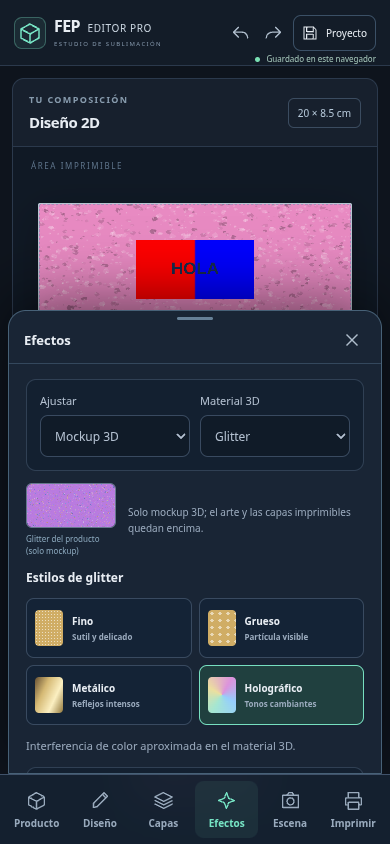
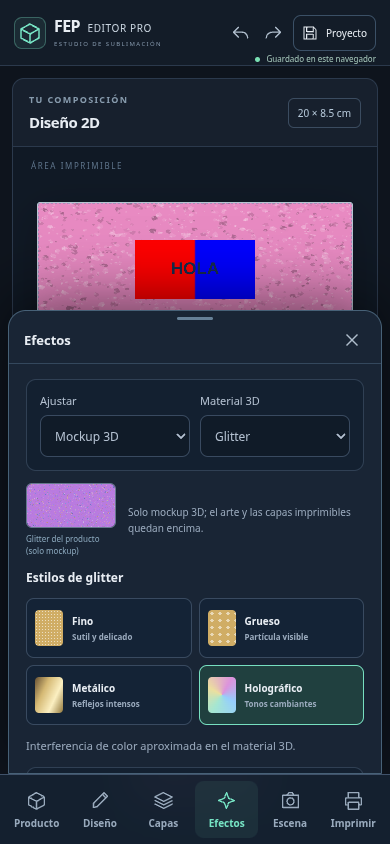
Verify exact canvas display proportions and final responsive captures

diff --git a/src/interface.css b/src/interface.css
@@ -1,4 +1,4 @@
-:root{font-family:Inter,ui-sans-serif,system-ui,-apple-system,BlinkMacSystemFont,"Segoe UI",sans-serif;color:#e8edf3;background:#0e141d;font-synthesis:none;--surface:#17202d;--surface-deep:#111a26;--border:#2b394c;--muted:#9aaabd;--accent:#76e4c4;--tools:296px;--radius:14px;color-scheme:dark}*{box-sizing:border-box}body{margin:0}button,input,select,summary{font:inherit}button,summary{cursor:pointer}button,input,select{border:1px solid #394a60;border-radius:8px;background:#1c2a3a;color:inherit;min-width:0}button{padding:10px 12px;min-height:40px;font-size:12px;font-weight:550;transition:background .15s,border-color .15s}button:hover,summary:hover{background:#293c50;border-color:#66829b}button:disabled{opacity:.42;cursor:default}button:focus-visible,input:focus-visible,select:focus-visible,summary:focus-visible,a:focus-visible{outline:2px solid var(--accent);outline-offset:3px}button.primary,.primary{background:#79e2c3;border-color:#79e2c3;color:#102e28;font-weight:700}button.primary:hover{background:#9bf0d7}svg{width:20px;height:20px;flex:none}button svg,summary svg{vertical-align:middle}input,select{width:100%;min-height:38px;padding:8px 10px;background:#101b28;font-size:12px}input[type=color]{height:38px;padding:3px}input[type=range]{padding:0;min-height:32px;accent-color:var(--accent)}input[type=checkbox]{width:18px;min-height:18px;accent-color:var(--accent);flex:none}label{display:grid;gap:7px;font-size:11px;color:#b4c1d1;line-height:1.4}p{margin:0}h1,h2,h3{margin:0}h2{font-size:18px;letter-spacing:-.45px}h3{font-size:12px;font-weight:650}small,.hint{font-size:11px;color:var(--muted);line-height:1.6}.muted{font-size:11px;color:var(--muted);line-height:1.6}.eyebrow{display:block;font-size:9px;font-weight:650;letter-spacing:1.35px;color:#879bad;margin-bottom:6px}[hidden]{display:none!important}.app-header{height:72px;display:flex;align-items:center;justify-content:space-between;padding:0 22px;border-bottom:1px solid var(--border);background:#131c28;gap:20px;flex:none}.brand{display:flex;gap:12px;align-items:center;text-decoration:none;color:inherit}.brand-mark{display:grid;place-items:center;width:38px;height:38px;border:1px solid #7de3c34f;border-radius:11px;background:#75e3c313;color:var(--accent)}.brand-mark svg{width:24px;height:24px}.brand strong{font-size:18px;letter-spacing:-.6px;font-weight:750}.brand strong span{font-weight:450;font-size:14px;letter-spacing:1px;margin-left:4px;color:#c9d4df}.brand small{display:block;font-size:8px;letter-spacing:2px;color:#8295a9;margin-top:3px}.header-actions{display:flex;align-items:center;gap:18px}.save-status{font-size:11px;color:#a7c9bc}.save-status:before{content:"";display:inline-block;background:#79dfb2;width:5px;height:5px;border-radius:50%;margin-right:7px}.save-status[data-state=error]{color:#ffad9e}.save-status[data-state=error]:before{background:#ffad9e}.save-status[data-state=saving]{color:#b9c8db}.save-status[data-state=saving]:before{background:#d6c579}.icon-button{width:36px;min-height:36px;padding:7px;background:transparent;border-color:transparent;border-radius:7px;color:#afbdcc}.history-actions{display:flex;gap:3px;padding-left:12px;border-left:1px solid var(--border)}.project-menu{position:relative}.project-menu>summary{display:flex;gap:8px;align-items:center;border:1px solid #3b5066;border-radius:8px;padding:9px 12px;list-style:none;font-size:12px}.project-menu>summary::-webkit-details-marker{display:none}.project-menu>div{position:absolute;right:0;top:48px;z-index:90;display:grid;gap:6px;min-width:230px;padding:10px;background:#1b2939;border:1px solid #42536b;border-radius:10px;box-shadow:0 12px 40px #0006}.project-menu button{text-align:left}.tool-tabs{display:flex;height:56px;gap:4px;align-items:stretch;padding:8px 22px 0;border-bottom:1px solid var(--border);background:#111a26;flex:none}.tool-tabs>button{position:relative;display:flex;gap:9px;align-items:center;justify-content:center;background:transparent;border:0;border-bottom:2px solid transparent;border-radius:7px 7px 0 0;color:#99aabd;padding:0 19px;font-size:12px;min-height:0}.tool-tabs>button svg{width:17px;height:17px}.tool-tabs>button[aria-selected=true]{color:var(--accent);border-bottom-color:var(--accent);background:#73dfbf0a}.tool-tabs>button:hover{color:#e9f3f5;background:#ffffff06}.editor-workspace{display:grid;grid-template-columns:var(--tools) minmax(0,1fr) minmax(0,1fr);gap:14px;padding:16px;min-height:0;flex:1;overflow:hidden}.tools-dock,.workspace-card{min-width:0;min-height:0;background:var(--surface);border:1px solid var(--border);border-radius:var(--radius);overflow:hidden}.tools-dock{position:relative}.tools-content{height:100%;overflow:hidden}.tool-panel{height:100%;padding:20px;display:flex;flex-direction:column;gap:16px;overflow:auto;overscroll-behavior:contain;scrollbar-width:thin;scrollbar-color:#425670 transparent}.panel-heading h2{margin:6px 0 8px}.panel-heading p{font-size:11px;line-height:1.6;color:var(--muted)}.control-card{padding:13px;border:1px solid #304054;border-radius:10px;background:#132030;display:grid;gap:13px}.control-card.compact{gap:10px}.control-card h3{color:#d0dbe7}.product-summary{display:flex;align-items:center;gap:12px;padding:18px 12px;background:linear-gradient(135deg,#23394a,#1a2a3c);border:1px solid #3c566a;border-radius:11px}.product-summary>svg{width:38px;height:38px;color:#8de3ca}.product-summary strong{display:block;font-size:12px;margin-bottom:4px}.product-summary small{font-size:10px}.field-pair{display:grid;grid-template-columns:repeat(2,minmax(0,1fr));gap:11px}.button-grid{display:grid;grid-template-columns:repeat(2,minmax(0,1fr));gap:7px}.button-grid.three{grid-template-columns:repeat(3,minmax(0,1fr))}.button-grid.three>button{font-size:10px;padding:8px 3px}.next-step{display:flex;align-items:center;justify-content:space-between}.panel-bottom{margin-top:auto;padding-top:12px;border-top:1px solid var(--border)}.panel-bottom button{width:100%;color:#dda8a0;background:transparent}.tool-accordion{border:1px solid #304054;border-radius:10px;background:#142030;flex:none}.tool-accordion>summary{display:flex;gap:10px;align-items:center;list-style:none;font-size:12px;font-weight:600;padding:13px;border-radius:10px}.tool-accordion>summary:after{content:"+";margin-left:auto;font-weight:400;color:#8ba5bb;font-size:17px}.tool-accordion[open]>summary:after{content:"−"}.tool-accordion>summary::-webkit-details-marker{display:none}.tool-accordion[open]>summary{border-bottom:1px solid #304054;border-radius:10px 10px 0 0}.accordion-body{display:grid;gap:13px;padding:13px}.tool-accordion>p{padding:13px}.image-size-panel{display:grid;gap:12px;padding:12px;border:1px solid #394c61;border-radius:8px}.image-size-panel strong{font-size:11px}.image-size-grid{display:grid;grid-template-columns:1fr 1fr;gap:10px}.image-lock,.mirror-switch{display:flex;align-items:center;gap:9px}.image-lock input,.mirror-switch input{flex:none}.image-lock{font-size:11px}.image-size-panel p{font-size:10px}.print-summary{display:grid;gap:6px;padding:16px;background:#75e3c30a;border:1px solid #75e3c333;border-radius:10px}.print-summary>span{font-size:8px;letter-spacing:1.4px;color:#9bbfb6}.print-summary>strong{color:var(--accent);font-size:27px;letter-spacing:-1px}.print-mode-status{font-size:10px;color:#91dfc8;line-height:1.5}#mirrorPreview{display:block;width:100%;height:auto;border-radius:6px}#exportPrint,#addGlitterLayer{background:#75e2c1;color:#12352a;border-color:#75e2c1;font-weight:700}.workspace-card{display:flex;flex-direction:column}.workspace-heading{display:flex;align-items:center;justify-content:space-between;padding:19px 20px 17px;border-bottom:1px solid var(--border);flex:none;gap:8px}.workspace-heading h2{font-size:16px}.dimension-pill{font-size:10px;padding:7px 9px;color:#b6c9da;border:1px solid #3b4c60;border-radius:6px;white-space:nowrap}.live-badge{display:flex;align-items:center;gap:6px;font-size:10px;color:#a4c7b9}.live-badge>i{width:5px;height:5px;background:#71dfae;border-radius:50%}.canvas-stage{flex:1;min-height:0;position:relative;display:flex;align-items:center;justify-content:center;overflow:hidden;background-color:#101925;background-image:radial-gradient(#4b61732e .6px,transparent .6px);background-size:16px 16px;padding:28px}.stage-label{position:absolute;top:13px;left:18px;font-size:8px;letter-spacing:1.6px;color:#5e748b}#canvasWrap{position:relative;flex:none;background:#fff;border:1px solid #b6c6d2;border-radius:2px;box-shadow:0 14px 40px #0004;overflow:hidden;touch-action:none}#designCanvas{display:block;width:100%;height:100%;touch-action:none;cursor:move}#emptyDesignHint{position:absolute;bottom:16px;left:12px;right:12px;text-align:center;font-size:10px;color:#7c91a7;pointer-events:none}.canvas-actions{display:flex;gap:8px;justify-content:center;padding:14px;border-top:1px solid var(--border);background:#152130;flex:none}.canvas-actions>button{display:flex;align-items:center;gap:7px;min-height:36px;padding:7px 11px;font-size:11px;background:#203044;border-color:#32475d}.canvas-actions svg{width:15px;height:15px}.workspace-caption{color:#8196ad;font-size:9px;text-align:center;line-height:1.5;padding:9px 10px;background:#131e2b;flex:none}#viewer{min-height:180px;flex:1;width:100%;overflow:hidden;position:relative;background:radial-gradient(circle at 50% 55%,#2b3e53,#17253a);touch-action:none}#viewer canvas{display:block;width:100%;height:100%;touch-action:none}.rotation-toolbar{display:grid;gap:9px;background:#162536;padding:13px 15px;border-top:1px solid #33475d;flex:none}.rotation-toolbar-top{display:flex;justify-content:space-between;align-items:center;font-size:10px}.rotation-toolbar-top>strong:first-child{font-weight:500;color:#b4c5d8}#rotationValue{font-size:13px;color:var(--accent);font-variant-numeric:tabular-nums}.rotation-adjust{display:flex;align-items:center;gap:10px}.rotation-adjust input{flex:1;min-width:0}.rotation-adjust button{width:42px;min-height:30px;padding:5px;font-size:10px}.rotation-action{display:flex;gap:7px;align-items:center}.rotation-action label{font-size:10px}.rotation-action input{width:56px;min-height:30px;padding:5px;font-size:10px}.rotation-action button{min-height:30px;padding:5px 8px;font-size:10px;flex:1}.workspace-status{display:flex;justify-content:space-between;gap:20px;align-items:center;min-height:28px;flex:none;padding:4px 20px;background:#111a26;border-top:1px solid #263649;color:#9db6ac;font-size:10px;line-height:1.4}#notice{overflow:hidden;text-overflow:ellipsis;white-space:nowrap}.edition-label{white-space:nowrap;font-size:8px;letter-spacing:1px;color:#6f859d}.mobile-panel-header{display:none}.layer-heading{display:flex;justify-content:space-between;align-items:center;font-size:11px;color:#adbdcf}.text-action{padding:3px 0;min-height:28px;border:0;background:transparent;color:#86d8c1;font-size:11px;text-align:left}.layer-inspector{margin-top:auto;display:grid;gap:11px;padding-top:15px;border-top:1px solid var(--border)}#panel-layers{gap:12px}#layerList{display:grid;gap:7px;align-content:start;overflow:auto;min-height:0;scrollbar-width:thin;flex:1}.layer-row{display:flex;align-items:center;gap:3px;padding:5px;border:1px solid #314459;border-radius:9px;background:#17283a;flex:none}.layer-row[data-selected=true]{border-color:#75e2c1;background:#1a383b;box-shadow:inset 2px 0 #75e2c1}.layer-row[data-visible=false]{opacity:.55}.layer-select{display:flex;align-items:center;gap:9px;min-width:0;flex:1;border:0;padding:2px;background:transparent;text-align:left;min-height:46px}.layer-select:hover{background:transparent}.layer-select canvas{width:38px;height:38px;border:1px solid #506377;border-radius:5px;background:#eee;flex:none}.layer-copy{display:grid;gap:4px;overflow:hidden}.layer-copy strong{font-size:11px;font-weight:550;white-space:nowrap;overflow:hidden;text-overflow:ellipsis}.layer-copy small{font-size:9px;line-height:1.2;color:#8aa2b7}.layer-toggle{position:relative;width:26px;height:38px;display:grid;place-items:center;flex:none;cursor:pointer}.layer-toggle input{position:absolute;inset:0;width:100%;height:100%;margin:0;opacity:0;cursor:pointer}.layer-toggle svg{width:15px;height:15px;color:#668399;pointer-events:none}.layer-toggle input:checked+svg{color:#a8e2ce}.layer-toggle input:focus-visible+svg{outline:2px solid #76e4c4;outline-offset:5px}.empty-layers{display:grid;justify-items:center;align-content:center;text-align:center;gap:15px;padding:34px 10px;flex:1}.empty-layers svg{width:34px;height:34px;color:#718ca7}.empty-layers strong{font-size:13px}.empty-layers p{font-size:11px;line-height:1.7;color:#8da5ba}.glitter-preview{margin:0;flex:none;width:90px}.glitter-preview canvas{display:block;width:90px;height:45px;border-radius:6px;border:1px solid #65788d}.glitter-preview figcaption{font-size:8px;line-height:1.5;color:#8aa7bc;margin-top:5px}.effect-preview-row{display:flex;gap:12px;align-items:center}.effect-preview-row .hint{font-size:10px}.preset-grid{display:grid;grid-template-columns:1fr 1fr;gap:7px}.preset-card{display:flex;gap:9px;align-items:center;text-align:left;padding:8px;min-height:62px;background:#142336}.preset-card[aria-pressed=true]{border-color:#77dfc0;background:#20403f}.preset-card>span:last-child{display:grid;gap:4px}.preset-card strong{font-size:10px;font-weight:600}.preset-card small{font-size:8px;line-height:1.3}.preset-swatch{width:28px;height:36px;border-radius:4px;flex:none;background-color:#d0ad65;background-image:radial-gradient(#fff9 .6px,transparent .6px);background-size:3px 3px}.preset-swatch.coarse{background-size:8px 7px;background-image:radial-gradient(#fff8 1.5px,transparent 1.5px)}.preset-swatch.metallic{background:linear-gradient(115deg,#665033,#d5b974,#fbefc1,#92783c)}.preset-swatch.holographic{background:conic-gradient(from 30deg,#dc93dc,#95cefc,#a5e6d1,#ecdf9e,#dc93dc)}.color-pair{display:grid;grid-template-columns:minmax(0,1fr) 70px;gap:10px}.color-pair label:last-child{font-size:10px}.sheet-layout{height:100%;display:flex;flex-direction:column;background:#172331}.sheet-head{display:flex;justify-content:space-between;align-items:center;gap:10px;padding:16px;border-bottom:1px solid var(--border)}.sheet-head h2{font-size:14px}.sheet-head button{font-size:10px;min-height:32px;padding:6px 8px}.sheet-body{display:flex;flex-direction:column-reverse;overflow:auto;min-height:0;flex:1;overscroll-behavior:contain;scrollbar-width:thin}.sheet-tools{display:grid;gap:12px;padding:14px}.sheet-tools .field-pair{gap:8px}.sheet-preview-holder{padding:13px 15px;background:#10202b;display:grid;gap:9px;justify-items:center;flex:none;border-bottom:1px solid #34475a}.sheet-preview-holder>strong{font-size:10px;color:#b7c8d8}#sheetPreview{display:block;max-width:100%;max-height:170px;object-fit:contain;background:white;box-shadow:0 4px 14px #0005;touch-action:none;cursor:grab}.sheet-help{color:#9db4c9;font-size:10px;line-height:1.5}.sheet-bad{color:#ffb6a6}.sheet-good{color:#99dabb}#sheetSelectedName{font-size:11px;color:#b5c9dc}#sheetOverlay{position:absolute;inset:0;z-index:4;background:#172331}#sheetOverlay[hidden]{display:none}.tag{font-size:9px;color:#9fdfc7}.full{width:100%}
+:root{font-family:Inter,ui-sans-serif,system-ui,-apple-system,BlinkMacSystemFont,"Segoe UI",sans-serif;color:#e8edf3;background:#0e141d;font-synthesis:none;--surface:#17202d;--surface-deep:#111a26;--border:#2b394c;--muted:#9aaabd;--accent:#76e4c4;--tools:296px;--radius:14px;color-scheme:dark}*{box-sizing:border-box}body{margin:0}button,input,select,summary{font:inherit}button,summary{cursor:pointer}button,input,select{border:1px solid #394a60;border-radius:8px;background:#1c2a3a;color:inherit;min-width:0}button{padding:10px 12px;min-height:40px;font-size:12px;font-weight:550;transition:background .15s,border-color .15s}button:hover,summary:hover{background:#293c50;border-color:#66829b}button:disabled{opacity:.42;cursor:default}button:focus-visible,input:focus-visible,select:focus-visible,summary:focus-visible,a:focus-visible{outline:2px solid var(--accent);outline-offset:3px}button.primary,.primary{background:#79e2c3;border-color:#79e2c3;color:#102e28;font-weight:700}button.primary:hover{background:#9bf0d7}svg{width:20px;height:20px;flex:none}button svg,summary svg{vertical-align:middle}input,select{width:100%;min-height:38px;padding:8px 10px;background:#101b28;font-size:12px}input[type=color]{height:38px;padding:3px}input[type=range]{padding:0;min-height:32px;accent-color:var(--accent)}input[type=checkbox]{width:18px;min-height:18px;accent-color:var(--accent);flex:none}label{display:grid;gap:7px;font-size:11px;color:#b4c1d1;line-height:1.4}p{margin:0}h1,h2,h3{margin:0}h2{font-size:18px;letter-spacing:-.45px}h3{font-size:12px;font-weight:650}small,.hint{font-size:11px;color:var(--muted);line-height:1.6}.muted{font-size:11px;color:var(--muted);line-height:1.6}.eyebrow{display:block;font-size:9px;font-weight:650;letter-spacing:1.35px;color:#879bad;margin-bottom:6px}[hidden]{display:none!important}.app-header{height:72px;display:flex;align-items:center;justify-content:space-between;padding:0 22px;border-bottom:1px solid var(--border);background:#131c28;gap:20px;flex:none}.brand{display:flex;gap:12px;align-items:center;text-decoration:none;color:inherit}.brand-mark{display:grid;place-items:center;width:38px;height:38px;border:1px solid #7de3c34f;border-radius:11px;background:#75e3c313;color:var(--accent)}.brand-mark svg{width:24px;height:24px}.brand strong{font-size:18px;letter-spacing:-.6px;font-weight:750}.brand strong span{font-weight:450;font-size:14px;letter-spacing:1px;margin-left:4px;color:#c9d4df}.brand small{display:block;font-size:8px;letter-spacing:2px;color:#8295a9;margin-top:3px}.header-actions{display:flex;align-items:center;gap:18px}.save-status{font-size:11px;color:#a7c9bc}.save-status:before{content:"";display:inline-block;background:#79dfb2;width:5px;height:5px;border-radius:50%;margin-right:7px}.save-status[data-state=error]{color:#ffad9e}.save-status[data-state=error]:before{background:#ffad9e}.save-status[data-state=saving]{color:#b9c8db}.save-status[data-state=saving]:before{background:#d6c579}.icon-button{width:36px;min-height:36px;padding:7px;background:transparent;border-color:transparent;border-radius:7px;color:#afbdcc}.history-actions{display:flex;gap:3px;padding-left:12px;border-left:1px solid var(--border)}.project-menu{position:relative}.project-menu>summary{display:flex;gap:8px;align-items:center;border:1px solid #3b5066;border-radius:8px;padding:9px 12px;list-style:none;font-size:12px}.project-menu>summary::-webkit-details-marker{display:none}.project-menu>div{position:absolute;right:0;top:48px;z-index:90;display:grid;gap:6px;min-width:230px;padding:10px;background:#1b2939;border:1px solid #42536b;border-radius:10px;box-shadow:0 12px 40px #0006}.project-menu button{text-align:left}.tool-tabs{display:flex;height:56px;gap:4px;align-items:stretch;padding:8px 22px 0;border-bottom:1px solid var(--border);background:#111a26;flex:none}.tool-tabs>button{position:relative;display:flex;gap:9px;align-items:center;justify-content:center;background:transparent;border:0;border-bottom:2px solid transparent;border-radius:7px 7px 0 0;color:#99aabd;padding:0 19px;font-size:12px;min-height:0}.tool-tabs>button svg{width:17px;height:17px}.tool-tabs>button[aria-selected=true]{color:var(--accent);border-bottom-color:var(--accent);background:#73dfbf0a}.tool-tabs>button:hover{color:#e9f3f5;background:#ffffff06}.editor-workspace{display:grid;grid-template-columns:var(--tools) minmax(0,1fr) minmax(0,1fr);gap:14px;padding:16px;min-height:0;flex:1;overflow:hidden}.tools-dock,.workspace-card{min-width:0;min-height:0;background:var(--surface);border:1px solid var(--border);border-radius:var(--radius);overflow:hidden}.tools-dock{position:relative}.tools-content{height:100%;overflow:hidden}.tool-panel{height:100%;padding:20px;display:flex;flex-direction:column;gap:16px;overflow:auto;overscroll-behavior:contain;scrollbar-width:thin;scrollbar-color:#425670 transparent}.panel-heading h2{margin:6px 0 8px}.panel-heading p{font-size:11px;line-height:1.6;color:var(--muted)}.control-card{padding:13px;border:1px solid #304054;border-radius:10px;background:#132030;display:grid;gap:13px}.control-card.compact{gap:10px}.control-card h3{color:#d0dbe7}.product-summary{display:flex;align-items:center;gap:12px;padding:18px 12px;background:linear-gradient(135deg,#23394a,#1a2a3c);border:1px solid #3c566a;border-radius:11px}.product-summary>svg{width:38px;height:38px;color:#8de3ca}.product-summary strong{display:block;font-size:12px;margin-bottom:4px}.product-summary small{font-size:10px}.field-pair{display:grid;grid-template-columns:repeat(2,minmax(0,1fr));gap:11px}.button-grid{display:grid;grid-template-columns:repeat(2,minmax(0,1fr));gap:7px}.button-grid.three{grid-template-columns:repeat(3,minmax(0,1fr))}.button-grid.three>button{font-size:10px;padding:8px 3px}.next-step{display:flex;align-items:center;justify-content:space-between}.panel-bottom{margin-top:auto;padding-top:12px;border-top:1px solid var(--border)}.panel-bottom button{width:100%;color:#dda8a0;background:transparent}.tool-accordion{border:1px solid #304054;border-radius:10px;background:#142030;flex:none}.tool-accordion>summary{display:flex;gap:10px;align-items:center;list-style:none;font-size:12px;font-weight:600;padding:13px;border-radius:10px}.tool-accordion>summary:after{content:"+";margin-left:auto;font-weight:400;color:#8ba5bb;font-size:17px}.tool-accordion[open]>summary:after{content:"−"}.tool-accordion>summary::-webkit-details-marker{display:none}.tool-accordion[open]>summary{border-bottom:1px solid #304054;border-radius:10px 10px 0 0}.accordion-body{display:grid;gap:13px;padding:13px}.tool-accordion>p{padding:13px}.image-size-panel{display:grid;gap:12px;padding:12px;border:1px solid #394c61;border-radius:8px}.image-size-panel strong{font-size:11px}.image-size-grid{display:grid;grid-template-columns:1fr 1fr;gap:10px}.image-lock,.mirror-switch{display:flex;align-items:center;gap:9px}.image-lock input,.mirror-switch input{flex:none}.image-lock{font-size:11px}.image-size-panel p{font-size:10px}.print-summary{display:grid;gap:6px;padding:16px;background:#75e3c30a;border:1px solid #75e3c333;border-radius:10px}.print-summary>span{font-size:8px;letter-spacing:1.4px;color:#9bbfb6}.print-summary>strong{color:var(--accent);font-size:27px;letter-spacing:-1px}.print-mode-status{font-size:10px;color:#91dfc8;line-height:1.5}#mirrorPreview{display:block;width:100%;height:auto;border-radius:6px}#exportPrint,#addGlitterLayer{background:#75e2c1;color:#12352a;border-color:#75e2c1;font-weight:700}.workspace-card{display:flex;flex-direction:column}.workspace-heading{display:flex;align-items:center;justify-content:space-between;padding:19px 20px 17px;border-bottom:1px solid var(--border);flex:none;gap:8px}.workspace-heading h2{font-size:16px}.dimension-pill{font-size:10px;padding:7px 9px;color:#b6c9da;border:1px solid #3b4c60;border-radius:6px;white-space:nowrap}.live-badge{display:flex;align-items:center;gap:6px;font-size:10px;color:#a4c7b9}.live-badge>i{width:5px;height:5px;background:#71dfae;border-radius:50%}.canvas-stage{flex:1;min-height:0;position:relative;display:flex;align-items:center;justify-content:center;overflow:hidden;background-color:#101925;background-image:radial-gradient(#4b61732e .6px,transparent .6px);background-size:16px 16px;padding:28px}.stage-label{position:absolute;top:13px;left:18px;font-size:8px;letter-spacing:1.6px;color:#5e748b}#canvasWrap{position:relative;flex:none;background:#fff;border:0;outline:1px solid #b6c6d2;border-radius:2px;box-shadow:0 14px 40px #0004;overflow:hidden;touch-action:none}#designCanvas{display:block;width:100%;height:100%;touch-action:none;cursor:move}#emptyDesignHint{position:absolute;bottom:16px;left:12px;right:12px;text-align:center;font-size:10px;color:#7c91a7;pointer-events:none}.canvas-actions{display:flex;gap:8px;justify-content:center;padding:14px;border-top:1px solid var(--border);background:#152130;flex:none}.canvas-actions>button{display:flex;align-items:center;gap:7px;min-height:36px;padding:7px 11px;font-size:11px;background:#203044;border-color:#32475d}.canvas-actions svg{width:15px;height:15px}.workspace-caption{color:#8196ad;font-size:9px;text-align:center;line-height:1.5;padding:9px 10px;background:#131e2b;flex:none}#viewer{min-height:180px;flex:1;width:100%;overflow:hidden;position:relative;background:radial-gradient(circle at 50% 55%,#2b3e53,#17253a);touch-action:none}#viewer canvas{display:block;width:100%;height:100%;touch-action:none}.rotation-toolbar{display:grid;gap:9px;background:#162536;padding:13px 15px;border-top:1px solid #33475d;flex:none}.rotation-toolbar-top{display:flex;justify-content:space-between;align-items:center;font-size:10px}.rotation-toolbar-top>strong:first-child{font-weight:500;color:#b4c5d8}#rotationValue{font-size:13px;color:var(--accent);font-variant-numeric:tabular-nums}.rotation-adjust{display:flex;align-items:center;gap:10px}.rotation-adjust input{flex:1;min-width:0}.rotation-adjust button{width:42px;min-height:30px;padding:5px;font-size:10px}.rotation-action{display:flex;gap:7px;align-items:center}.rotation-action label{font-size:10px}.rotation-action input{width:56px;min-height:30px;padding:5px;font-size:10px}.rotation-action button{min-height:30px;padding:5px 8px;font-size:10px;flex:1}.workspace-status{display:flex;justify-content:space-between;gap:20px;align-items:center;min-height:28px;flex:none;padding:4px 20px;background:#111a26;border-top:1px solid #263649;color:#9db6ac;font-size:10px;line-height:1.4}#notice{overflow:hidden;text-overflow:ellipsis;white-space:nowrap}.edition-label{white-space:nowrap;font-size:8px;letter-spacing:1px;color:#6f859d}.mobile-panel-header{display:none}.layer-heading{display:flex;justify-content:space-between;align-items:center;font-size:11px;color:#adbdcf}.text-action{padding:3px 0;min-height:28px;border:0;background:transparent;color:#86d8c1;font-size:11px;text-align:left}.layer-inspector{margin-top:auto;display:grid;gap:11px;padding-top:15px;border-top:1px solid var(--border)}#panel-layers{gap:12px}#layerList{display:grid;gap:7px;align-content:start;overflow:auto;min-height:0;scrollbar-width:thin;flex:1}.layer-row{display:flex;align-items:center;gap:3px;padding:5px;border:1px solid #314459;border-radius:9px;background:#17283a;flex:none}.layer-row[data-selected=true]{border-color:#75e2c1;background:#1a383b;box-shadow:inset 2px 0 #75e2c1}.layer-row[data-visible=false]{opacity:.55}.layer-select{display:flex;align-items:center;gap:9px;min-width:0;flex:1;border:0;padding:2px;background:transparent;text-align:left;min-height:46px}.layer-select:hover{background:transparent}.layer-select canvas{width:38px;height:38px;border:1px solid #506377;border-radius:5px;background:#eee;flex:none}.layer-copy{display:grid;gap:4px;overflow:hidden}.layer-copy strong{font-size:11px;font-weight:550;white-space:nowrap;overflow:hidden;text-overflow:ellipsis}.layer-copy small{font-size:9px;line-height:1.2;color:#8aa2b7}.layer-toggle{position:relative;width:26px;height:38px;display:grid;place-items:center;flex:none;cursor:pointer}.layer-toggle input{position:absolute;inset:0;width:100%;height:100%;margin:0;opacity:0;cursor:pointer}.layer-toggle svg{width:15px;height:15px;color:#668399;pointer-events:none}.layer-toggle input:checked+svg{color:#a8e2ce}.layer-toggle input:focus-visible+svg{outline:2px solid #76e4c4;outline-offset:5px}.empty-layers{display:grid;justify-items:center;align-content:center;text-align:center;gap:15px;padding:34px 10px;flex:1}.empty-layers svg{width:34px;height:34px;color:#718ca7}.empty-layers strong{font-size:13px}.empty-layers p{font-size:11px;line-height:1.7;color:#8da5ba}.glitter-preview{margin:0;flex:none;width:90px}.glitter-preview canvas{display:block;width:90px;height:45px;border-radius:6px;border:1px solid #65788d}.glitter-preview figcaption{font-size:8px;line-height:1.5;color:#8aa7bc;margin-top:5px}.effect-preview-row{display:flex;gap:12px;align-items:center}.effect-preview-row .hint{font-size:10px}.preset-grid{display:grid;grid-template-columns:1fr 1fr;gap:7px}.preset-card{display:flex;gap:9px;align-items:center;text-align:left;padding:8px;min-height:62px;background:#142336}.preset-card[aria-pressed=true]{border-color:#77dfc0;background:#20403f}.preset-card>span:last-child{display:grid;gap:4px}.preset-card strong{font-size:10px;font-weight:600}.preset-card small{font-size:8px;line-height:1.3}.preset-swatch{width:28px;height:36px;border-radius:4px;flex:none;background-color:#d0ad65;background-image:radial-gradient(#fff9 .6px,transparent .6px);background-size:3px 3px}.preset-swatch.coarse{background-size:8px 7px;background-image:radial-gradient(#fff8 1.5px,transparent 1.5px)}.preset-swatch.metallic{background:linear-gradient(115deg,#665033,#d5b974,#fbefc1,#92783c)}.preset-swatch.holographic{background:conic-gradient(from 30deg,#dc93dc,#95cefc,#a5e6d1,#ecdf9e,#dc93dc)}.color-pair{display:grid;grid-template-columns:minmax(0,1fr) 70px;gap:10px}.color-pair label:last-child{font-size:10px}.sheet-layout{height:100%;display:flex;flex-direction:column;background:#172331}.sheet-head{display:flex;justify-content:space-between;align-items:center;gap:10px;padding:16px;border-bottom:1px solid var(--border)}.sheet-head h2{font-size:14px}.sheet-head button{font-size:10px;min-height:32px;padding:6px 8px}.sheet-body{display:flex;flex-direction:column-reverse;overflow:auto;min-height:0;flex:1;overscroll-behavior:contain;scrollbar-width:thin}.sheet-tools{display:grid;gap:12px;padding:14px}.sheet-tools .field-pair{gap:8px}.sheet-preview-holder{padding:13px 15px;background:#10202b;display:grid;gap:9px;justify-items:center;flex:none;border-bottom:1px solid #34475a}.sheet-preview-holder>strong{font-size:10px;color:#b7c8d8}#sheetPreview{display:block;max-width:100%;max-height:170px;object-fit:contain;background:white;box-shadow:0 4px 14px #0005;touch-action:none;cursor:grab}.sheet-help{color:#9db4c9;font-size:10px;line-height:1.5}.sheet-bad{color:#ffb6a6}.sheet-good{color:#99dabb}#sheetSelectedName{font-size:11px;color:#b5c9dc}#sheetOverlay{position:absolute;inset:0;z-index:4;background:#172331}#sheetOverlay[hidden]{display:none}.tag{font-size:9px;color:#9fdfc7}.full{width:100%}
 @media(min-width:901px){html,body{height:100%;height:100dvh;overflow:hidden}body{display:flex;flex-direction:column}}
 @media(min-width:901px) and (max-width:1200px){:root{--tools:270px}.editor-workspace{gap:10px;padding:10px}.tool-panel{padding:15px}.workspace-heading{padding:14px 12px}.workspace-heading h2{font-size:14px}.dimension-pill{font-size:9px;padding:6px}.canvas-actions{gap:5px;padding:10px}.canvas-actions>button{padding:6px;font-size:10px}.rotation-action{gap:5px}.rotation-action button{font-size:9px;padding:5px 4px}}
 @media(max-width:900px){html{scroll-padding-top:75px;scroll-padding-bottom:88px}body{padding-bottom:92px}.app-header{height:66px;padding:0 14px;gap:8px;position:sticky;top:0;z-index:25}.brand{gap:8px}.brand-mark{width:32px;height:32px;border-radius:8px}.brand strong{font-size:16px}.brand strong span{font-size:10px;letter-spacing:.6px}.brand small{font-size:6px;letter-spacing:1.4px}.header-actions{gap:6px}.save-status{display:block;position:absolute;right:14px;top:53px;max-width:calc(100vw - 185px);font-size:8px;overflow:hidden;text-overflow:ellipsis;white-space:nowrap}.history-actions{padding-left:0;border:0;gap:0}.icon-button{width:32px;min-height:36px;padding:7px}.project-menu>summary{padding:8px;min-height:36px}.project-menu>summary>svg{width:16px;height:16px}.project-menu>summary>span{font-size:10px}.project-menu>div{top:44px}.tool-tabs{position:fixed;bottom:0;left:0;right:0;height:calc(70px + env(safe-area-inset-bottom));padding:6px 5px calc(6px + env(safe-area-inset-bottom));z-index:50;gap:0;border-top:1px solid #40526a;border-bottom:0;background:#14202ff5;backdrop-filter:blur(18px);justify-content:space-around}.tool-tabs>button{flex-direction:column;gap:5px;padding:5px 2px;border:0;border-radius:9px;flex:1;font-size:10px;min-width:0}.tool-tabs>button svg{width:21px;height:21px}.tool-tabs>button[aria-selected=true]{background:#73dfbf14}.editor-workspace{display:flex;flex-direction:column;gap:12px;overflow:visible;padding:12px;min-height:0}.workspace-card{flex:none;border-radius:12px}.workspace-heading{padding:14px 16px}.workspace-heading h2{font-size:15px}.canvas-stage{height:245px;flex:none;min-height:0;padding:25px}.canvas-actions{padding:10px}.workspace-caption{font-size:9px}#viewer{height:310px;flex:none;min-height:0}.rotation-toolbar{padding:13px}.rotation-adjust button{min-height:38px;width:45px}.rotation-action button,.rotation-action input{min-height:38px}.workspace-status{position:relative;margin:0 12px;border-radius:8px;padding:8px 10px;min-height:28px}.edition-label{display:none}#notice{white-space:normal;font-size:9px}.tools-dock{position:fixed;bottom:calc(70px + env(safe-area-inset-bottom));left:8px;right:8px;width:auto;height:55dvh;max-height:560px;min-height:260px;z-index:40;border-radius:18px 18px 0 0;border:1px solid #476177;box-shadow:0 -12px 60px #0008;background:#192535;display:flex;flex-direction:column;transform:translateY(calc(100% + 100px));visibility:hidden;transition:transform .2s ease,visibility .2s}.tools-dock[data-open=true]{transform:translateY(0);visibility:visible}.mobile-panel-header{display:flex;justify-content:space-between;align-items:center;position:relative;flex:none;min-height:53px;padding:10px 15px 4px;border-bottom:1px solid #34485d}.mobile-panel-header>strong{font-size:13px}.drawer-grip{position:absolute;top:6px;left:calc(50% - 18px);width:36px;height:3px;border-radius:10px;background:#668097}.tools-content{flex:1;min-height:0}.tool-panel{padding:15px 17px;gap:13px}.panel-heading{display:none}.layer-toggle{width:36px;min-height:44px}.tool-panel input,.tool-panel select{min-height:42px}.tool-panel button{min-height:42px}.tool-panel input[type=checkbox]{min-height:18px}#panel-layers{gap:10px}.layer-inspector{gap:8px;padding-top:10px}.layer-inspector>.text-action{display:none}.layer-select canvas{width:38px;height:38px}#layerList{flex:1;min-height:80px}.preset-card{min-height:60px!important}.sheet-preview-holder{padding:8px 12px}#sheetPreview{max-height:125px}.sheet-head{padding:12px}.sheet-head>button{min-height:38px}.sheet-tools{padding:12px}.sheet-tools button{min-height:42px}.sheet-head h2{font-size:13px}}

diff --git a/docs/RESULTADOS.md b/docs/RESULTADOS.md
@@ -20,7 +20,7 @@ No se omiten fallos: el primer test de teclado falló con `false !== true` al es
 ## Comprobaciones de interfaz
 
 - Seis pestañas exactas y un único panel de herramientas visible, sin controles con IDs duplicados. Navegación con flechas/Home/End; panel móvil recogible con Escape y botón; campos inertes cuando está cerrado.
-- Ambos previews completos y sin superposición para las seis pestañas en escritorio 1024×600, 1024×768 y 1500×980. También siguen visibles al abrir la plancha acoplada.
+- Proporción real del canvas conservada, sin distorsión por bordes. Ambos previews completos y sin superposición para las seis pestañas en escritorio 1024×600, 1024×768 y 1500×980. También siguen visibles al abrir la plancha acoplada.
 - Móvil emulado 390×844 y 360×800: barra inferior dentro de pantalla, panel de hasta 55 % de alto, sin overflow horizontal; el lienzo y el control frontal 270° permanecen alcanzables cerrando/desplazando el panel.
 - Texto e imagen en acordeones; capas con miniaturas de 48×48 diferentes por contenido, selección, orden, bloqueo, visibilidad, duplicado y Undo/Redo. La miniatura no cambia las medidas ni el arte.
 - Fino/grueso son recetas de partícula. Metálico/holográfico son parámetros del material existente; mate y ajustes de intensidad siguen funcionando. Se verificó la propiedad de iridescencia y ausencia de errores de shader en WebGL.

diff --git a/docs/INTERFAZ_FASE2B.md b/docs/INTERFAZ_FASE2B.md
@@ -21,7 +21,7 @@ A partir de 901 px, el área de trabajo tiene herramientas a la izquierda y dos 
 
 La plancha se acopla al panel izquierdo en lugar de cubrir la aplicación. Tiene una vista de hoja y acordeones de papel, piezas y exportación. Las dos vistas continúan visibles al trabajar en ella. Cambiar de pestaña cierra la plancha y restaura el scroll; no descarta las piezas. Sus centímetros, rotación, espejo, formatos y diálogo de impresión usan el módulo aprobado sin reescribirlo.
 
-El canvas 2D se ajusta visualmente al espacio disponible conservando su relación de aspecto. No modifica resolución del documento, tamaño de objetos o centímetros de producción. El renderer 3D usa la altura real del visor y ResizeObserver para evitar estirar el producto al redimensionar; cámara `(0,1,5.7)`, FOV 40°, geometrías y 270° iniciales se mantienen.
+El canvas 2D se ajusta visualmente al espacio disponible conservando su relación de aspecto. No modifica resolución del documento, tamaño de objetos o centímetros de producción. El contorno del lienzo no consume píxeles de su caja; se comprueba también su proporción real en el DOM. El renderer 3D usa la altura real del visor y ResizeObserver para evitar estirar el producto al redimensionar; cámara `(0,1,5.7)`, FOV 40°, geometrías y 270° iniciales se mantienen.
 
 ### Móvil
 
